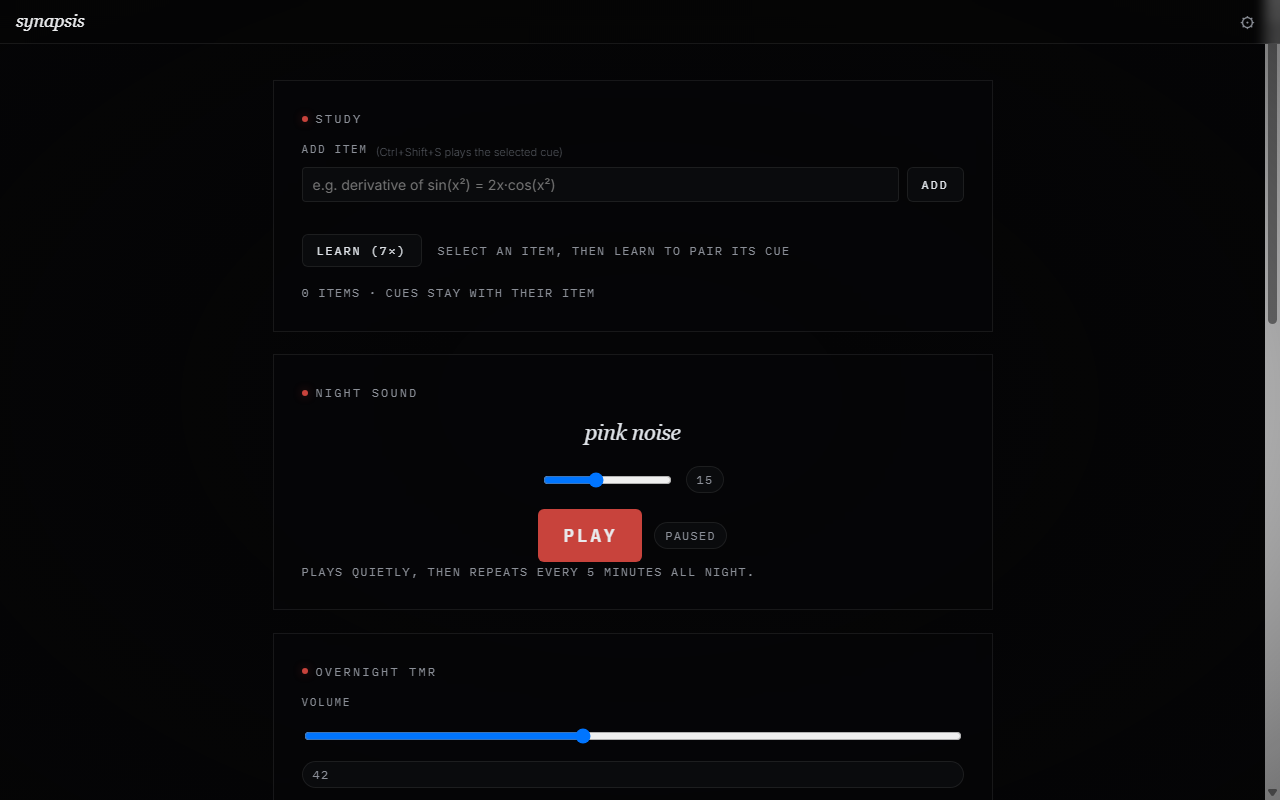
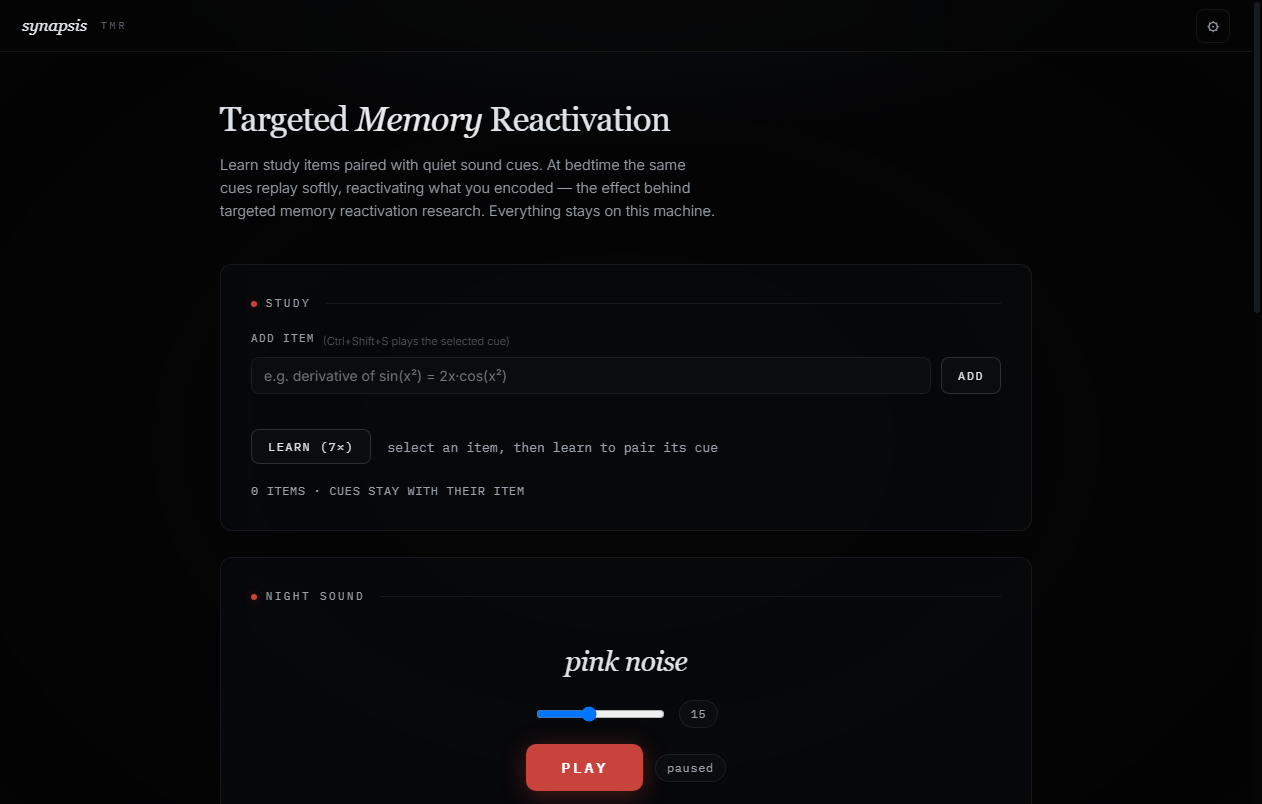
docs: fix config docs, citations, and UI polish from review

diff --git a/www/style.css b/www/style.css
@@ -1,153 +1,180 @@
-/* synapsis — theme: dark lab-notebook aesthetic, stripped to essentials */
+/* synapsis — TMR: dark lab-notebook, minimal black, calm hierarchy.
+   Redesigned: sharper panels, real two-column rhythm, restrained accents. */
 :root{
-  --bg:#050506; --bg-elev:#0a0b0d; --panel:rgba(6,7,9,.48);
-  --ink:#e9eaec; --ink-dim:#8b8f97; --ink-faint:#565a61; --text-primary:#e9eaec; --text-dim:#8b8f97;
-  --line:rgba(255,255,255,.08);
+  --bg:#050506; --bg-elev:#0b0c0f; --panel:rgba(10,11,14,.55);
+  --ink:#e9eaec; --ink-dim:#9aa0a8; --ink-faint:#5b6068;
+  --line:rgba(255,255,255,.07); --line-strong:rgba(255,255,255,.14);
   --synapse:#dfe3e8;
-  --red:#c8433c; --red-dim:rgba(200,67,59,.4);
+  --red:#c8433c; --red-dim:rgba(200,67,59,.35); --red-faint:rgba(200,67,59,.12);
   --ice:rgba(159,214,255,.9);
-  --green:#6a9a6a;
+  --green:#7fae7f;
   --font-serif:'Fraunces',Georgia,serif;
   --font-sans:'Inter',system-ui,-apple-system,sans-serif;
   --font-mono:'IBM Plex Mono',Consolas,monospace;
 }
 *,*:before,*:after{box-sizing:border-box}
-html,body{margin:0;padding:0;height:100%;font-family:var(--font-sans);
+html,body{margin:0;padding:0;min-height:100%;font-family:var(--font-sans);
   background:var(--bg);color:var(--ink);-webkit-font-smoothing:antialiased;
   font-weight:300;overflow-x:hidden}
+body{position:relative;font-size:15px;line-height:1.6}
+body:before{content:'';position:fixed;inset:0;pointer-events:none;z-index:0;
+  background:
+    radial-gradient(ellipse 70% 45% at 50% -8%,rgba(159,214,255,.05),transparent 60%),
+    radial-gradient(ellipse at 50% 55%,transparent 30%,rgba(3,3,4,.6) 100%)}
 a{color:var(--ice);text-decoration:none}
-body{position:relative;overflow-y:auto}
-body:before{content:'';position:fixed;inset:0;pointer-events:none;
-  background:radial-gradient(ellipse at 50% 50%,transparent 22%,rgba(5,5,6,.55) 100%)}
 
-/* atmosphere */
-.grain,.grain-bottom{position:fixed;pointer-events:none;mix-blend-mode:overlay;opacity:.04}
-.grain{top:0;left:0;width:100%;height:100%}
-.grain-bottom{bottom:0;left:0;width:100%;height:40%;height:30vh;bottom:-3vh}
+/* atmosphere kept, subtler */
+.grain,.grain-bottom{position:fixed;pointer-events:none;mix-blend-mode:overlay;opacity:.035;z-index:1}
+.grain{inset:0}
+.grain-bottom{left:0;right:0;bottom:-3vh;height:30vh}
 
-/* typography */
-body{font-size:clamp(15px,2vw,17px);line-height:1.6;color:var(--ink)}
-.font-mono{font-family:var(--font-mono)}
-.eyebrow,.eyebear{display:flex;align-items:center;gap:.5rem;margin-bottom:.8rem}
-.eyebrow .dot,.eyebear .dot{width:6px;height:6px;border-radius:100px;background:var(--red);
-  box-shadow:0 0 10px var(--red-dim)}
-.eyebrow span,.eyebear span{font-family:var(--font-mono);font-size:clamp(11px,2vw,12px);
-  letter-spacing:.18em;text-transform:uppercase;color:var(--ink-dim)}
+/* ---------- topbar ---------- */
+.topbar{position:fixed;top:0;left:0;right:0;height:52px;z-index:40;
+  display:flex;align-items:center;justify-content:space-between;padding:0 22px;
+  background:rgba(5,5,6,.55);backdrop-filter:blur(10px);
+  border-bottom:1px solid var(--line)}
+.wordmark{font-family:var(--font-serif);font-style:italic;font-size:17px;
+  letter-spacing:-.01em;color:var(--synapse)}
+.wordmark:after{content:'TMR';font-family:var(--font-mono);font-style:normal;
+  font-size:10px;letter-spacing:.28em;color:var(--ink-faint);margin-left:14px;
+  vertical-align:2px}
+.gear-btn{background:transparent;border:1px solid var(--line);color:var(--ink-dim);
+  font-size:15px;cursor:pointer;width:34px;height:34px;border-radius:8px;
+  display:inline-flex;align-items:center;justify-content:center;transition:.15s}
+.gear-btn:hover{color:var(--ink);border-color:var(--line-strong);background:rgba(255,255,255,.04)}
 
-/* layout */
-.stage{max-width:760px;margin:0 auto;padding:5rem 1.25rem 4rem}
-.lab-section{background:var(--panel);backdrop-filter:blur(7px) saturate(1.1);
-  border:1px solid var(--line);border-radius:0;padding:clamp(20px,3vw,28px);
-  margin-bottom:1.4rem;box-shadow:0 0 0 0 rgba(0,0,0,0)}
-.lab-section:focus-within{box-shadow:0 0 0 1px var(--red-dim)}
+/* ---------- stage: generous header, real columns ---------- */
+.stage{position:relative;z-index:2;max-width:860px;margin:0 auto;
+  padding:92px 24px 72px}
 
-/* topbar */
-.topbar{position:fixed;top:0;left:0;right:0;height:44px;display:flex;
-  align-items:center;justify-content:space-between;padding:0 16px;
-  background:rgba(5,5,6,.35);backdrop-filter:blur(6px);border-bottom:1px solid var(--line);
-  z-index:40}
-.wordmark{font-family:var(--font-serif);font-style:italic;font-weight:400;
-  font-size:clamp(16px,3vw,18px);letter-spacing:-.01em}
-.gear-btn{background:transparent;border:1px solid transparent;color:var(--ink-dim);
-  font-family:var(--font-sans);font-size:18px;cursor:pointer;padding:4px 8px;
-  border-radius:6px;transition:.15s}
-.gear-btn:hover{background:rgba(255,255,255,.05);border-color:var(--line);color:var(--ink)}
+.hero{margin-bottom:2.6rem}
+.hero h1{font-family:var(--font-serif);font-weight:400;font-size:clamp(26px,4vw,34px);
+  letter-spacing:-.02em;margin:0 0 .4rem;color:var(--synapse)}
+.hero h1 em{font-style:italic;color:var(--ink)}
+.hero p{margin:0;max-width:56ch;color:var(--ink-dim);font-size:14.5px}
 
-/* form */
-.field{display:flex;flex-direction:column;gap:.35rem}
-.field label{font-family:var(--font-mono);font-size:clamp(10px,2vw,11px);
-  letter-spacing:.15em;text-transform:uppercase;color:var(--ink-dim)}
+.lab-section{background:var(--panel);backdrop-filter:blur(10px) saturate(1.1);
+  border:1px solid var(--line);border-radius:12px;
+  padding:clamp(22px,3vw,30px);margin-bottom:1.6rem;
+  transition:border-color .2s}
+.lab-section:hover{border-color:var(--line-strong)}
+
+/* section header */
+.eyebrow{display:flex;align-items:center;gap:.55rem;margin-bottom:1.1rem}
+.eyebrow .dot{width:6px;height:6px;border-radius:50%;background:var(--red);
+  box-shadow:0 0 8px var(--red-dim);flex:none}
+.eyebrow span{font-family:var(--font-mono);font-size:11px;letter-spacing:.22em;
+  text-transform:uppercase;color:var(--ink-dim)}
+.eyebrow:after{content:'';flex:1;height:1px;background:var(--line);margin-left:.4rem}
+
+/* ---------- forms ---------- */
+.field{display:flex;flex-direction:column;gap:.4rem}
+.field label{font-family:var(--font-mono);font-size:10.5px;letter-spacing:.16em;
+  text-transform:uppercase;color:var(--ink-dim)}
 .field label sub{font-family:var(--font-sans);font-size:11px;letter-spacing:0;
-  text-transform:none;color:var(--ink-faint);margin-top:-.1rem}
-.field input[type=text],
-.field select,
-.field fieldset input[type=number],
-.field input[type=number],
-.field input[type=range]{
+  text-transform:none;color:var(--ink-faint)}
+.field input[type=text],.field select,.field input[type=number]{
   background:var(--bg-elev);border:1px solid var(--line);color:var(--ink);
-  font-family:var(--font-sans);font-size:14px;padding:8px 10px;border-radius:4px;
-  outline:none;transition:.15s}
-.field input:focus-within,
-.field select:focus{border-color:var(--ice);box-shadow:0 0 0 2px rgba(159,214,255,.12)}
-input[type=range]{cursor:pointer}
+  font-family:var(--font-sans);font-size:14px;padding:9px 12px;border-radius:8px;
+  outline:none;transition:border-color .15s, box-shadow .15s;width:100%}
+.field input:focus,.field select:focus{border-color:rgba(159,214,255,.5);
+  box-shadow:0 0 0 3px rgba(159,214,255,.08)}
+.field input[type=range]{cursor:pointer;accent-color:var(--red);width:100%}
+
 .pill{display:inline-flex;align-items:center;gap:.4rem;font-family:var(--font-mono);
-  font-size:12px;letter-spacing:.1em;text-transform:uppercase;color:var(--ink-dim);
-  background:var(--bg-elev);border:1px solid var(--line);padding:3px 10px;border-radius:100px}
+  font-size:11.5px;letter-spacing:.08em;color:var(--ink-dim);
+  background:var(--bg-elev);border:1px solid var(--line);
+  padding:4px 11px;border-radius:100px;white-space:nowrap}
 
-/* buttons / chips */
-.kbd-chip{background:var(--bg-elev);border:1px solid var(--line);color:var(--synapse);
-  font-family:var(--font-mono);font-size:12px;letter-spacing:.15em;text-transform:uppercase;
-  padding:8px 14px;border-radius:6px;cursor:pointer;transition:.15s}
-.kbd-chip:hover{background:rgba(255,255,255,.06);border-color:var(--ink-faint);color:var(--ink)}
+/* ---------- buttons ---------- */
+.kbd-chip{background:var(--bg-elev);border:1px solid var(--line-strong);color:var(--synapse);
+  font-family:var(--font-mono);font-size:12px;letter-spacing:.12em;text-transform:uppercase;
+  padding:9px 16px;border-radius:8px;cursor:pointer;transition:.15s}
+.kbd-chip:hover{background:rgba(255,255,255,.05);border-color:rgba(255,255,255,.24);color:#fff}
 .kbd-chip:active{transform:translateY(1px)}
-.toggle{display:inline-flex;align-items:center;gap:.5rem;font-size:13px;cursor:pointer}
-.toggle input{margin:0}
 
-/* play button — hero of the app */
-.play-btn{background:var(--red);border:1px solid var(--red-dim);color:var(--ink);
-  font-family:var(--font-mono);font-size:18px;letter-spacing:.15em;text-transform:uppercase;
-  padding:14px 24px;border-radius:6px;cursor:pointer;transition:.18s;font-weight:600}
-.play-btn:hover{background:rgba(200,67,59,.14);border-color:var(--red-dim);color:var(--synapse);transform:scale(1.03)}
-.play-btn:active{transform:translateY(1px) scale(1)}
-.play-btn.playing{background:rgba(200,67,59,.24);border-color:var(--red)}
+.play-btn{background:var(--red);border:1px solid transparent;color:#fff;
+  font-family:var(--font-mono);font-size:15px;letter-spacing:.18em;text-transform:uppercase;
+  padding:13px 34px;border-radius:10px;cursor:pointer;transition:.18s;font-weight:600;
+  box-shadow:0 4px 24px var(--red-dim)}
+.play-btn:hover{background:#d45049;transform:scale(1.02)}
+.play-btn:active{transform:translateY(1px)}
+.play-btn.playing{background:rgba(200,67,59,.2);border-color:var(--red);color:var(--synapse);
+  box-shadow:none}
 
-/* grid layouts */
-.desk-grid,.sleep-grid,.setup-grid,.noise-center{display:flex;flex-direction:column;gap:1rem}
-.noise-center{align-items:center;text-align:center}
-.noise-name{font-family:var(--font-serif);font-style:italic;font-size:clamp(18px,3vw,22px);
-  color:var(--synapse);letter-spacing:-.02em}
-.noise-row{display:flex;align-items:center;gap:12px}
-.noise-row input[type=range]{max-width:180px}
+.toggle{display:inline-flex;align-items:center;gap:.55rem;font-size:13px;
+  color:var(--ink-dim);cursor:pointer}
+.toggle input{accent-color:var(--red);width:15px;height:15px;margin:0}
 
-/* item list */
-.add-row{display:flex;gap:.5rem}
+/* ---------- study section ---------- */
+.desk-grid{display:grid;grid-template-columns:1fr;gap:1.1rem}
+.add-row{display:flex;gap:.6rem}
 .add-row input{flex:1}
-.item-list{display:flex;flex-direction:column;gap:.35rem}
-.item-row{display:flex;align-items:center;gap:.6rem;padding:6px 8px;
-  border:1px solid var(--line);border-radius:4px;background:var(--bg-elev)}
-.item-row.current{border-color:var(--red-dim)}
-.item-row .item-text{flex:1;font-size:14px;color:var(--ink);cursor:pointer;
-  white-space:nowrap;overflow:hidden;text-overflow:ellipsis}
-.item-row .tune-chip{padding:4px 8px;font-size:11px;flex:none}
-.item-del{background:none;border:none;color:var(--ink-faint);font-size:16px;
-  cursor:pointer;padding:0 6px;border-radius:4px}
-.item-del:hover{color:var(--red)}
 .desk-actions{display:flex;align-items:center;gap:1rem;flex-wrap:wrap}
 
-/* estimation / night panels */
-.est-row{display:flex;justify-content:space-between;gap:1rem;font-size:13px;
-  color:var(--ink-dim);padding:2px 0}
-.est-row span:last-child{color:var(--synapse);font-family:var(--font-mono);font-size:12px}
-.est-disclaimer{margin-top:.5rem;color:var(--ink-faint);text-transform:none;letter-spacing:.04em}
-#night-panel{margin-top:1rem}
-.mono-label{color:var(--red);font-family:var(--font-mono);font-size:11px;
-  letter-spacing:.15em;text-transform:uppercase}
-#night-panel .status-line{margin-top:.35rem;text-transform:none;letter-spacing:.04em}
+.item-list{display:flex;flex-direction:column;gap:.4rem;max-height:260px;overflow-y:auto}
+.item-row{display:flex;align-items:center;gap:.6rem;padding:8px 11px;
+  border:1px solid var(--line);border-radius:8px;background:var(--bg-elev);
+  transition:border-color .15s}
+.item-row:hover{border-color:var(--line-strong)}
+.item-row.current{border-color:var(--red-dim);background:linear-gradient(
+  90deg,var(--red-faint),var(--bg-elev) 55%)}
+.item-row .item-text{flex:1;font-size:13.5px;color:var(--ink);cursor:pointer;
+  white-space:nowrap;overflow:hidden;text-overflow:ellipsis}
+.item-row .tune-chip{padding:4px 9px;font-size:10.5px;flex:none}
+.item-del{background:none;border:none;color:var(--ink-faint);font-size:15px;
+  cursor:pointer;padding:0 5px;border-radius:4px;line-height:1}
+.item-del:hover{color:var(--red)}
 
-/* recall */
-.recall-list{display:flex;flex-direction:column;gap:.45rem;margin-top:.8rem}
-.recall-row{display:flex;align-items:center;gap:.6rem;padding:6px 8px;
-  border:1px solid var(--line);border-radius:4px;background:var(--bg-elev)}
-.recall-row.done{opacity:.45}
-.recall-row .recall-text{flex:1;font-size:14px;white-space:nowrap;overflow:hidden;text-overflow:ellipsis}
-.recall-row .kbd-chip{padding:4px 8px;font-size:11px;flex:none}
+/* ---------- night sound: centered showcase ---------- */
+.noise-center{display:flex;flex-direction:column;align-items:center;gap:1rem;
+  text-align:center;padding:1rem 0 1.4rem}
+.noise-name{font-family:var(--font-serif);font-style:italic;
+  font-size:clamp(22px,3.4vw,28px);color:var(--synapse);letter-spacing:-.02em}
+.noise-row{display:flex;align-items:center;gap:12px}
+.noise-row input[type=range]{max-width:200px}
+
+/* ---------- overnight grid: two columns on desktop ---------- */
+.sleep-grid{display:grid;grid-template-columns:repeat(2,1fr);gap:1.1rem 1.6rem;
+  align-items:end}
+.sleep-grid .toggle{align-self:center}
+#sleep-start,#sleep-stop{justify-self:start}
+@media (max-width:640px){.sleep-grid{grid-template-columns:1fr}}
+
+/* ---------- panels ---------- */
+.card{background:var(--bg-elev);border:1px solid var(--line);border-radius:10px;
+  padding:16px 18px;font-size:13px;line-height:1.7;margin-top:1.2rem}
+.card ul{margin:6px 0 0;padding-left:1.15rem;line-height:1.85}
+.card li{margin-top:.2rem;color:var(--ink-dim)}
+.callout{border-left:3px solid var(--red);border-radius:4px 10px 10px 4px}
+.callout strong{color:var(--red);font-family:var(--font-mono);font-size:11px;
+  letter-spacing:.16em;text-transform:uppercase;display:inline-flex;align-items:center;gap:.5rem}
+.callout strong .dot{width:5px;height:5px;border-radius:50%;background:var(--red)}
+.est-row{display:flex;justify-content:space-between;gap:1rem;font-size:13px;
+  color:var(--ink-dim);padding:3px 0;border-bottom:1px dashed rgba(255,255,255,.05)}
+.est-row:last-of-type{border-bottom:none}
+.est-row span:last-child{color:var(--synapse);font-family:var(--font-mono);font-size:12px}
+.est-disclaimer{margin-top:.6rem;color:var(--ink-faint);font-size:11.5px}
+.mono-label{color:var(--red);font-family:var(--font-mono);font-size:11px;
+  letter-spacing:.16em;text-transform:uppercase}
+
+.status-line{font-family:var(--font-mono);font-size:11.5px;letter-spacing:.08em;
+  text-transform:uppercase;color:var(--ink-dim)}
+#night-panel .status-line,#desk-status,#sleep-status,#recall-status{
+  text-transform:none;letter-spacing:.03em;font-size:12.5px}
+
+/* ---------- recall ---------- */
+.recall-list{display:flex;flex-direction:column;gap:.45rem;margin-top:.9rem}
+.recall-row{display:flex;align-items:center;gap:.6rem;padding:8px 11px;
+  border:1px solid var(--line);border-radius:8px;background:var(--bg-elev)}
+.recall-row.done{opacity:.4}
+.recall-row .recall-text{flex:1;font-size:13.5px;white-space:nowrap;
+  overflow:hidden;text-overflow:ellipsis}
+.recall-row .kbd-chip{padding:4px 9px;font-size:10.5px;flex:none}
 #recall-list .kbd-chip:last-child{align-self:flex-start;margin-top:.3rem}
 
-/* status */
-.status-line{font-family:var(--font-mono);font-size:12px;letter-spacing:.1em;
-  text-transform:uppercase;color:var(--ink-dim)}
-
-/* cards / callout */
-.card{background:var(--bg-elev);border:1px solid var(--line);padding:14px 16px;border-radius:0;
-  font-size:13px;line-height:1.7}
-.card ul{margin:6px 0 0;padding-left:1.1rem;line-height:1.8}
-.card li{margin-top:.2rem}
-.callout{border-left:3px solid var(--red);padding-left:14px}
-.callout strong{color:var(--red);font-family:var(--font-mono);font-size:11px;letter-spacing:.15em;text-transform:uppercase}
-
-/* scrollbars */
-:root{--scrollbar-bg:#0d0f13}
-body::-webkit-scrollbar{width:10;height:10}
-::webkit-scrollbar-track{background:var(--bg-elev);border-radius:8px;border:2px solid var(--bg)}
-::webkit-scrollbar-thumb{background:#171a20;border-radius:8px;border:2px solid var(--bg);transition:.2s}
-::webkit-scrollbar-thumb:hover{background:#242933}
+/* ---------- scrollbars ---------- */
+::-webkit-scrollbar{width:10px;height:10px}
+::-webkit-scrollbar-track{background:transparent}
+::-webkit-scrollbar-thumb{background:#171a20;border-radius:8px;border:2px solid var(--bg)}
+::-webkit-scrollbar-thumb:hover{background:#242933}

diff --git a/www/index.html b/www/index.html
@@ -19,6 +19,13 @@
 </header>
 
 <main class="stage">
+  <div class="hero">
+    <h1>Targeted <em>Memory</em> Reactivation</h1>
+    <p>Learn study items paired with quiet sound cues. At bedtime the same
+    cues replay softly, reactivating what you encoded — the effect behind
+    targeted memory reactivation research. Everything stays on this machine.</p>
+  </div>
+
   <!-- study desk: items, learn, play -->
   <section class="lab-section" id="desk">
     <div class="eyebrow"><span class="dot"></span><span>study</span></div>
